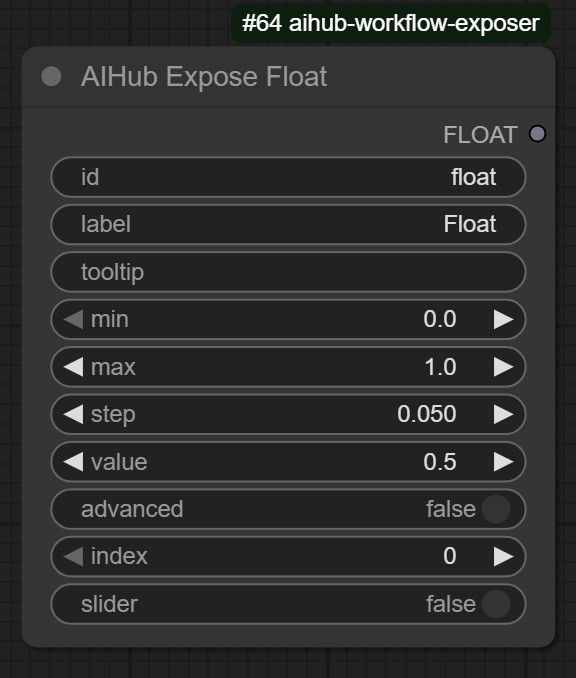
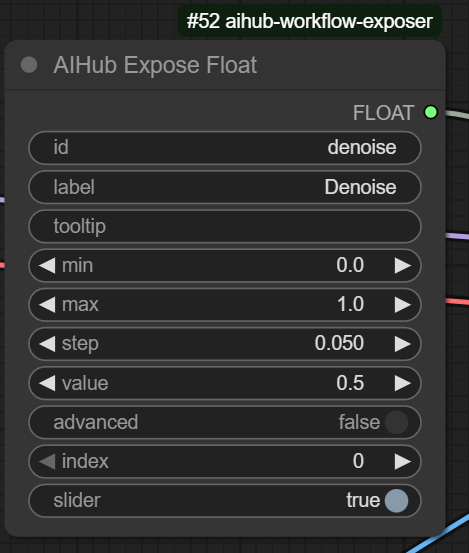
documentation progress

diff --git a/js/export-workflow.js b/js/export-workflow.js
@@ -35,19 +35,32 @@ function getWorkflowId(exported) {
     for (const nodeId in exported) {
         const node = exported[nodeId];
         if (node.class_type === "AIHubWorkflowController") {
-            return node.inputs.id;
+            return [node.inputs.id, node.inputs.project_type, node.inputs.project_init];
         }
     }
-    return null;
+    return [null, null, null];
 }
 
 function validateWorkflow(exported) {
-    const workflowId = getWorkflowId(exported);
+    const [workflowId, projectType, projectInit] = getWorkflowId(exported);
     if (!workflowId || workflowId.trim() === "") {
         const dialog = new ComfyDialog()
         dialog.show("Validation Error: The workflow must have a valid workflow id set in the AIHubWorkflowController node");
         return false;
     }
+    
+    if (projectType && projectType.trim() !== "" && !idValidator(projectType)) {
+        const dialog = new ComfyDialog()
+        dialog.show("Validation Error: The project type is invalid, it must be alphanumeric or underscores, and between 3 and 50 characters");
+        return false;
+    }
+
+    if (projectInit && !projectType) {
+        const dialog = new ComfyDialog()
+        dialog.show("Validation Error: The project init is set but the project type is not, you must set a project type if you set a project init");
+        return false;
+    }
+
     // Perform validation on the exported workflow
     // ensure that the exported workflow has at least one output action node that starts with AIHubAction
     const hasOutputAction = Object.keys(exported).some(nodeId => {
@@ -87,6 +100,18 @@ function validateWorkflow(exported) {
     if (repeating_ids.size > 0) {
         const dialog = new ComfyDialog()
         dialog.show("Validation Error: The workflow contains repeating expose ids: " + Array.from(repeating_ids).join(", "));
+        return false;
+    }
+
+    const shouldNotHaveExposeProjectTypes = projectInit || !projectType;
+    const exposeProjectTypes = Object.keys(exported).filter(nodeId => {
+        const node = exported[nodeId];
+        return node.class_type.startsWith("AIHubExposeProject");
+    });
+
+    if (shouldNotHaveExposeProjectTypes && exposeProjectTypes.length > 0) {
+        const dialog = new ComfyDialog()
+        dialog.show("Validation Error: The workflow has a project init or no project type, it should not contain any AIHubExposeProject type nodes");
         return false;
     }
 

diff --git a/README.md b/README.md
@@ -48,6 +48,18 @@ Example file:
 
 You can add an image in the same directory with the id as filename, and ending in .png (representing a png image) to make that be the lora image to add as visual aid to the effect that it applies
 
+### Add a lora by workflow
+
+You can add a lora by using an automatic workflow method using the `AIHubMetaExportLora` node, and configuring by hand
+
+![AIHubMetaExportLora](images/AIHubMetaExportLora.png)
+
+The running the workflow will automatically export the lora to the loras folder with the given settings as json as well as the image.
+
+The `AIHubMetaSetExportedLoraImage` can be used to set the image of the lora only.
+
+For actions like deleting do it by hand within the filesystem, these utilities are only meant to aid and prevent mistakes while adding and not to replace manual management.
+
 ## Add a model
 
 In order for a client to have access to a model, it needs to be configured via a model file, a json format file with the following information
@@ -87,6 +99,18 @@ Example file:
  - default_scheduler [required]: the default scheduler for the model
  - default_sampler [required]: the default sampler for the model
 
+### Add a model by workflow
+
+You can add a model by using an automatic workflow method using the `AIHubMetaExportModel` node, and configuring it by hand
+
+![AIHubMetaExportModel](images/AIHubMetaExportModel.png)
+
+Whether the model is a diffusion model is known already simply by the model chosen, however the weight_dtype has to be set in case it is one.
+
+Equally to the lora, an image can be chosen for the model, and the standalone node `AIHubMetaSetExportedModelImage` can be used for that.
+
+NOTE: Exporting models (as well as the loras that apply to them) is only useful for them being selectable by `AIHubExposeModel`, as having a model exported allows them so, however if the workflow is too specific to a model or a specific set of models this is unnecessary to do so, you can load models with `AIHubUtilsLoadModel` based on say a string selection `AIHubExposeStringSelection` without them being exported, the main reason models and loras can be exported is to support workflows that simply can take any of a group or family, for example, simple image generation; and that way installing more models and loras for the same workflow is not cumbersome.
+
 ## Adapt a workflow
 
 First any workflow to be adapted requires a AIHubWorkflowController this merely specifies the id of the workflow as well as other useful data about the workflow.
@@ -104,8 +128,13 @@ The workflow controller should exist in each workflow that is exposed, and repre
  - description: The description to give to the user
  - category: an arbitrary category to place the workflow at
  - context: the context for the workflow
- - project_type [coming soon]: allows to create aihub projects, this represents the type of the project, if a project type is specified the workflow only works with that project type; the advantage of a project is that it can store unique project files that subsequent workflows can later request, this is specially useful, for example, in step by step video generation; in LTXV for example, latent files need to be stored in order to be worked upon further, since working with images is not reasonable; within a project a latent file can be stored once specified.
- - project_type_init [coming soon]: a boolean that allows to specify that the workflow should "start" a new project of the given type, once that is done the project specific workflows are enabled.
+ - project_type: allows to create aihub projects, this represents the type of the project, if a project type is specified the workflow only works with that project type; the advantage of a project is that it can store unique project files that subsequent workflows can later request, this is specially useful, for example, in step by step video generation; in LTXV for example, latent files need to be stored in order to be worked upon further, since working with images is not reasonable; within a project a latent file can be stored once specified.
+ - project_type_init: a boolean that allows to specify that the workflow should "start" a new project of the given type, once that is done the project specific workflows are enabled.
+
+Two buttons are also in there.
+
+ - Validate Workflow: Validates the workflow to find if there are issues that would make it inoperable with the AIHub protocol.
+ - Export to AIHub workflows: Validates and exports the workflow to the workflows folder so that clients can utilize it, optionally also requests for a png image that would represent the workflow.
 
 ### AIHub Expose Integer
 
@@ -125,6 +154,8 @@ The integer expose provides a single integer
 
 ### AIHub Expose Float
 
+The float expose provides a single floating point number
+
 ![AIHubExposeFloat](images/AIHubExposeFloat.png)
 
  - id: Represents the id of the field which should be unique among all other fields in the same workflow
@@ -136,8 +167,11 @@ The integer expose provides a single integer
  - value: The default value for that floating point (also the current value)
  - advanced: Whether it represents an advanced option
  - index: Normally it is at the discretion of the client to figure how to sort the fields, use this to specify a specific ordering
+ - slider: Whether the expose should be a slider of sorts
 
 ### AIHub Expose Boolean
+
+The boolean expose provides a single boolean value
 
 ![AIHubExposeBoolean](images/AIHubExposeBoolean.png)
 
@@ -150,17 +184,118 @@ The integer expose provides a single integer
 
 ### AIHub Expose Seed
 
+You must have seeds exposed to the client as outside of ComfyUI WebUI the random numbers are not generated, ensure randomness of numbers by using this seed generator, it is the client responsability to provide a seed
+
+![AIHubExposeSeed](images/AIHubExposeSeed.png)
+
+ - id: Represents the id of the field which should be unique among all other fields in the same workflow
+ - label: A human readable label to show to the user
+ - tooltip: A tooltip about this and what it represents
+ - value: The default value for that seed (also the current value)
+ - advanced: Whether it represents an advanced option
+ - index: Normally it is at the discretion of the client to figure how to sort the fields, use this to specify a specific ordering
+
 ### AIHub Expose Steps
 
-### AIHub Expose Sampler
+A steps is a simple integer greater than zero, however the main reason it has its separate expose is because it is affected by model default values, unless marked as unaffected
+
+![AIHubExposeSteps](images/AIHubExposeSteps.png)
+
+ - id: Represents the id of the field which should be unique among all other fields in the same workflow
+ - label: A human readable label to show to the user
+ - tooltip: A tooltip about this and what it represents
+ - value: The default value for the steps (also the current value)
+ - advanced: Whether it represents an advanced option
+ - index: Normally it is at the discretion of the client to figure how to sort the fields, use this to specify a specific ordering
+ - unaffected_by_model_steps: If you use a `AIHubExposeModel` the expose steps default value should change to this, the user can still change it but with this option it will force the specific steps
 
 ### AIHub Expose Cfg
 
+The cfg is a simple floating point value greater than zero, however the main reason it has its separate expose is because it is affected by model default values, unless marked as unaffected
+
+![AIHubExposeCfg](images/AIHubExposeCfg.png)
+
+ - id: Represents the id of the field which should be unique among all other fields in the same workflow
+ - label: A human readable label to show to the user
+ - tooltip: A tooltip about this and what it represents
+ - value: The default value for the cfg (also the current value)
+ - advanced: Whether it represents an advanced option
+ - index: Normally it is at the discretion of the client to figure how to sort the fields, use this to specify a specific ordering
+ - unaffected_by_model_cfg: If you use a `AIHubExposeModel` the expose cfg default value should change to this, the user can still change it but with this option it will force the specific cfg
+
+### AIHub Expose Sampler
+
+The sampler is used for model sampling, technically a string; differences on how the different nodes treat SAMPLER values can cause issues within WebUI but not during actual execution.
+
+![AIHubExposeSampler](images/AIHubExposeSampler.png)
+
+ - id: Represents the id of the field which should be unique among all other fields in the same workflow
+ - label: A human readable label to show to the user
+ - tooltip: A tooltip about this and what it represents
+ - value: The default value for the Sampler (also the current value)
+ - advanced: Whether it represents an advanced option
+ - index: Normally it is at the discretion of the client to figure how to sort the fields, use this to specify a specific ordering
+ - unaffected_by_model_sampler: If you use a `AIHubExposeModel` the expose sampler default value should change to this, the user can still change it but with this option it will force the specific sampler
+
 ### AIHub Expose Scheduler
+
+The scheduler is used for model scheduling, technically a string; differences on how the different nodes treat SCHEDULER values can cause issues within WebUI but not during actual execution.
+
+![AIHubExposeScheduler](images/AIHubExposeScheduler.png)
+
+ - id: Represents the id of the field which should be unique among all other fields in the same workflow
+ - label: A human readable label to show to the user
+ - tooltip: A tooltip about this and what it represents
+ - value: The default value for the Scheduler (also the current value)
+ - advanced: Whether it represents an advanced option
+ - index: Normally it is at the discretion of the client to figure how to sort the fields, use this to specify a specific ordering
+ - unaffected_by_model_scheduler: If you use a `AIHubExposeModel` the expose scheduler default value should change to this, the user can still change it but with this option it will force the specific scheduler
 
 ### AIHub Expose Image
 
+One of the cores of AIHub is the ability to expose images from software that has been integrated, exposing an image using the default method means the image is queried from the working directory; the following options are available as inputs:
+
+![AIHubExposeImage](images/AIHubExposeImage.png)
+
+ - id: Represents the id of the field which should be unique among all other fields in the same workflow
+ - label: A human readable label to show to the user
+ - tooltip: A tooltip about this and what it represents
+ - type: the type of the image expose
+ - index: Normally it is at the discretion of the client to figure how to sort the fields, use this to specify a specific ordering
+
+The given ouputs are given
+
+ - image: The image in question.
+ - mask: The mask of the image in question
+ - pos_x: the position x of the image within the client canvas.
+ - pos_y: the position y of the image within the client canvas.
+ - layer_id: an id for the layer of the image within the client canvas.
+ - width: width of the image
+ - height: height of the image
+
+Image Types:
+
+ - current_layer: Provides the current layer that the user is working with, the current layer can be bigger or smaller than the canvas itself, and have any random coordinates within the canvas, current_layer provides the whole image data for that layer, pos_x and pos_y will be the position of the layer in the canvas.
+ - current_layer_at_image_intersection: Provides the current layer that the user is working with but without the areas that are not visible in the canvas (pointless data since it will be invisible), normally it is better to use this when wanting the current_layer, pos_x and pos_y will be the position of this virtual layer intersection.
+ - merged_image: Provides the resulting merged image of all combined layers together at the size of the canvas, excluding any information outside of the canvas, pos_x and pos_y should be zero.
+ - merged_image_without_current_layer: same as merged image but excludes whatever the client considers the current selected layer, pos_x and pos_y should be zero.
+ - merged_image_current_layer_intersection: it first flattens the image getting this merged image result that is the exact size of the canvas, but only provides the intersection with the current layer; so this should be exactly the same as current_layer_at_image_intersection dimension wise and position wise but the image data is all the merged layers.
+ - merged_image_current_layer_intersection_without_current_layer: same as merged_image_current_layer_intersection but without the pixel data from the current layer.
+ - upload: No information from the canvas, upload a new image, pos_x and pos_y are zero because it was never in a canvas.
+
+![Image Explaining the Layers Visually](images/layer_explain.png)
+
+### AIHub Expose Project Image
+
+Meant to only truly exist within a project, once it has been initialized, retrieves a file that represents an image (this is not meant to be shown in the client UI it merely gets the local file)
+
+![AIHubExposeProjectImage](images/AIHubExposeProjectImage.png)
+
+When an image has been saved by an action, this expose basically can retrieve it back by its filename; the point is to be able to chain operations, note that if you are not within a project, retrieving files back is not guaranteed as the client outside of a project can just dispose of everything, this is why the project_type and project_init exist in the workflow controller, the validator will in fact reject such workflows.
+
 ### AIHub Expose Model
+
+Allows for the client to select a model
 
 ### AIHub Action New Image
 
